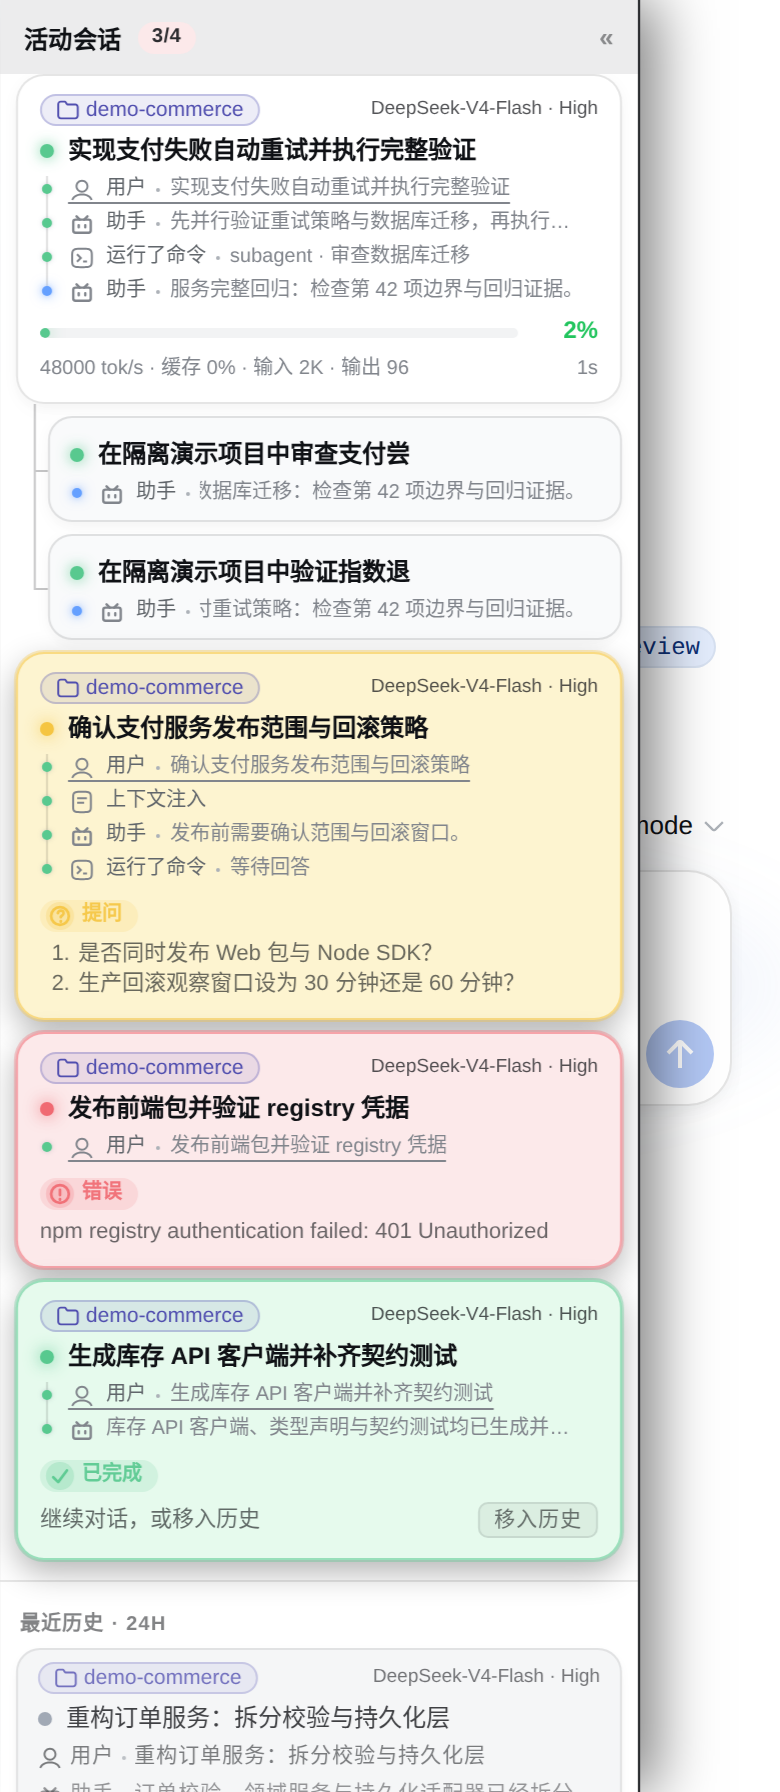
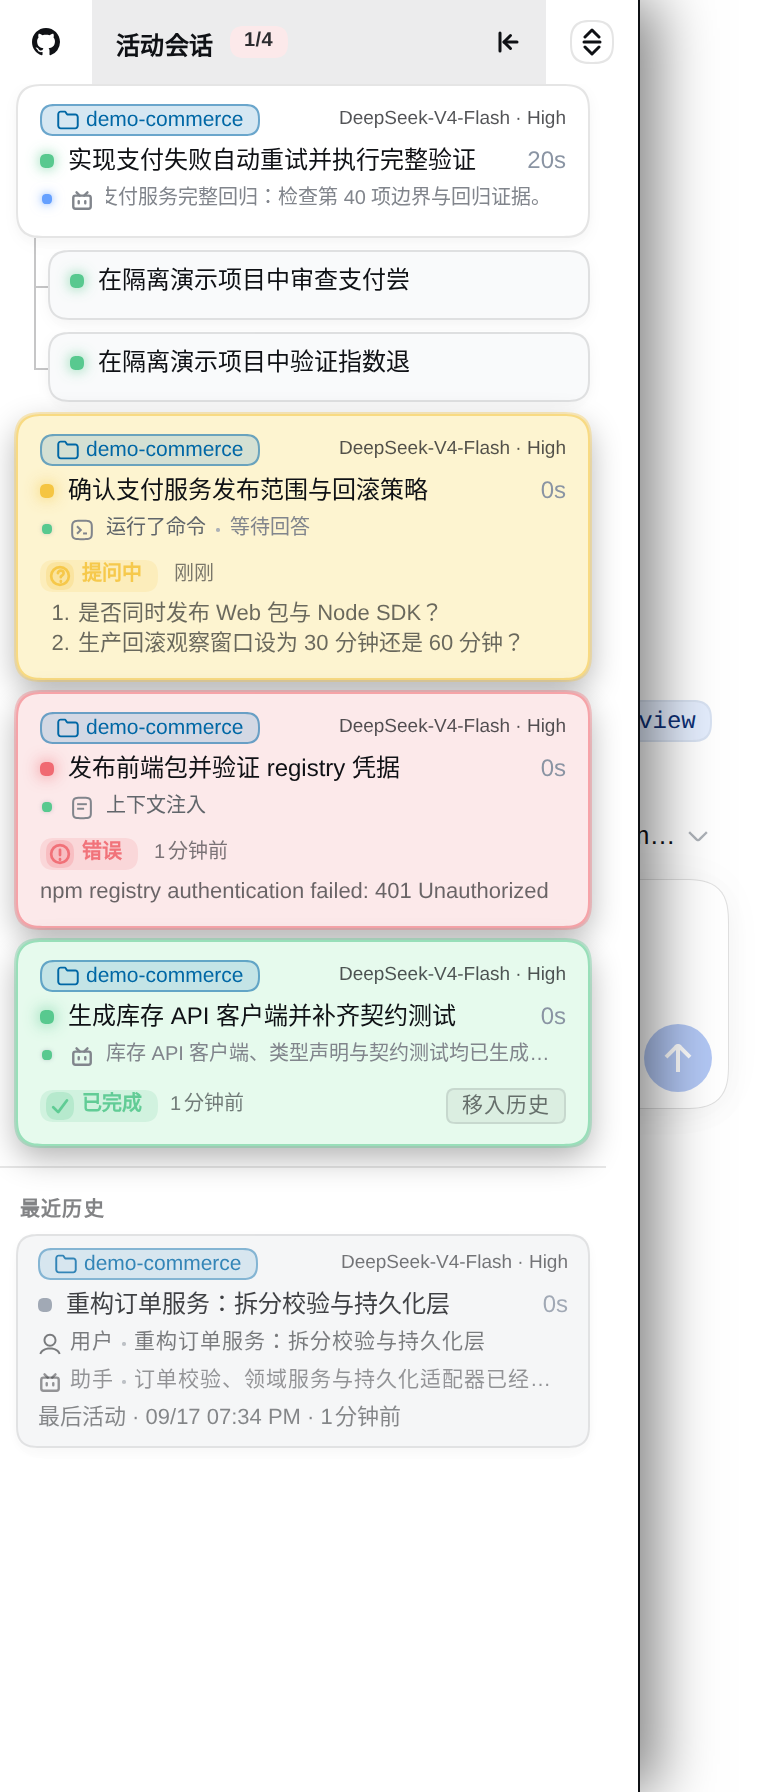
📝 文档(readme): 重摄默认档位截图并补充近期改进清单
## 原因
README 与市场截图停留在显示档位功能上线前的完整呈现形态（a81ac2f 摄于 8 月底），与当前实现脱节；此后多项用户可感知改进也未写入功能清单。

## 影响
- 四张市场截图（桌面/移动 × 深浅色）以默认中间显示档重摄：隔离演示环境实拍，画面含标题行三区布局、子代理层级、等待卡状态年龄、分级等待提醒与最近历史。
- 两个 README 同步：功能清单新增三档显示密度、标题行三区布局、活动会话新近度排序三条；工作区条目改写为徽标身份稳定配色口径；子代理层级条目补模型溯源/effort/回合进度；统计条目补标题行累计运行时长并加完整呈现档限定；等待提醒条目补状态年龄说明；英文版历史条目补齐绝对+相对时间；首屏大图 alt 按默认档实际观感改写。

## 取舍
截图路径不变（assets/screenshot-*.png），dsh-market screenshots.json 的 raw 直链自动生效；纯文档与资产变更，不修改代码与构建产物。

diff --git a/README.md b/README.md
@@ -21,7 +21,7 @@ This plugin attempts to answer these questions by providing an **activity sessio
 <p align="center">
   <picture>
     <source media="(prefers-color-scheme: dark)" srcset="assets/screenshot-desktop-dark.png">
-    <img src="assets/screenshot-desktop-light.png" width="1000" alt="Activity session overview pane in an isolated demo environment: showing run stats, sub-agent hierarchy, question prompts, completion reminders, error reminders, and recent history">
+    <img src="assets/screenshot-desktop-light.png" width="1000" alt="Activity session overview pane in an isolated demo environment at the default medium display tier: showing live session status with sub-agent hierarchy, question prompts, completion reminders, error reminders, and recent history">
   </picture>
 </p>
 <p align="center"><sub>Mobile <a href="assets/screenshot-mobile-dark.png">dark drawer</a> · <a href="assets/screenshot-mobile-light.png">light drawer</a> of the same clean isolated environment running a simulated coding task</sub></p>
@@ -53,11 +53,14 @@ The npm package ships prebuilt, so no local build step is needed. If the pane do
 - [x] **From floating overlay to docked pane**: on desktop, a persistent edge-docked column is added to the right of the left-sidebar workspaces; on mobile, a fixed drawer hidden by default is expanded via the "Activity" button in the session header, without squeezing the main conversation layout.
 - [x] **No pet icon features**: pet-related features are not supported; the UI focuses on session activity itself.
 - [x] **Native data-source subscription**: directly subscribes to the push snapshots of DSH's native `sessions` / `workspaces` services; the timeline shows at most 4 collapsed work-item rows, keeping the latest user instruction and the work item actually being executed.
-- [x] **Recent session list**: the pane is split into "Active sessions" and "Recent history" areas; inactive main sessions are shown in activity-time batches, and a "Load more..." button at the bottom lets users explicitly reveal older sessions.
-- [x] **Stronger waiting-for-action reminders**: blocked waits, completion reminders, and error reminders are marked with gold, green, and red cards respectively; questions are previewed directly as a question list, and completion reminders are explicitly acknowledged via the "Move to history" button on the card; the state is persisted on the host side and synced across all clients, so refreshing the page or opening another window never loses unacknowledged completion reminders or error reminders not yet overwritten by a new round.
-- [x] **Sub/grandchild session hierarchy**: sub-agents are nested under their parent session with connector lines and compact cards; a parent whose own round has ended but that still has active descendants keeps rendering as running, and disappears from the active area once its sub-agents have ended and no active descendants remain; the history area keeps main sessions only.
-- [x] **Workspace names displayed and factored into ordering**: session cards show a workspace badge with a stable color, and session ordering follows the workspace order in the left sidebar.
-- [x] **Current work and run stats**: active cards show the latest instruction, thinking, and tool calls in a collapsed timeline of at most 4 rows; running cards also show round progress, output rate, cache hit rate, input/output tokens, and run duration, while completed, blocked, and error waits retain the previous round's duration at the end of the token stats row alongside last-known output stats; recent history cards retain the latest completed round's available stats between the reply preview and activity time.
+- [x] **Recent session list**: the pane is split into "Active sessions" and "Recent history" areas; inactive main sessions are shown in activity-time batches with both the absolute date-time and the relative activity time, and a "Load more..." button at the bottom lets users explicitly reveal older sessions.
+- [x] **Stronger waiting-for-action reminders**: blocked waits, completion reminders, and error reminders are marked with gold, green, and red cards respectively; questions are previewed directly as a question list, and completion reminders are explicitly acknowledged via the "Move to history" button on the card; the state is persisted on the host side and synced across all clients, so refreshing the page or opening another window never loses unacknowledged completion reminders or error reminders not yet overwritten by a new round. Each waiting card also shows the relative age of its current state (e.g. "5 min ago") to the right of the status pill, refreshed every minute and hidden when the entry time is unavailable.
+- [x] **Sub/grandchild session hierarchy**: sub-agents are nested under their parent session with connector lines and compact cards; a parent whose own round has ended but that still has active descendants keeps rendering as running, and disappears from the active area once its sub-agents have ended and no active descendants remain; the history area keeps main sessions only. Sub-agent cards show model provenance, the reasoning effort, and round progress.
+- [x] **Workspace badges with stable identity colors**: session cards show a workspace badge whose foreground/background color pair is derived from the workspace identity — adding, removing, or changing other workspaces or refreshing the page never reshuffles existing colors.
+- [x] **Recency-first activity ordering**: running sessions are pinned to the top and sorted by the time of the latest user instruction (newest first); waiting-for-action sessions are sorted by when they entered their waiting state (newest first).
+- [x] **Current work and run stats**: active cards show the latest instruction, thinking, and tool calls in a collapsed timeline of at most 4 rows, with the cumulative run duration on the title row; running cards in the full tier also show round progress, output rate, cache hit rate, and input/output tokens, while completed, blocked, and error waits retain the previous round's duration at the end of the token stats row alongside last-known output stats; recent history cards retain the latest completed round's available stats between the reply preview and activity time.
+- [x] **Three-tier display density**: the toggle in the title-bar tool area cycles every card through compact → medium → full (ascending information density), defaulting to medium — medium keeps the title, workspace badge, the latest timeline row (live for running sessions), and waiting bodies (completion reminders collapse to a single row), while compact keeps title rows only; switching anchors the selected card in place, and the choice persists across refreshes.
+- [x] **Redesigned title bar**: the GitHub repo entry sits in its own area at the far left (hover tip: "Report issues, star & fork"), the collapse-hint icon appears on hover at the right end of the title area, and the display-density toggle lives in the tool area on the right — the two buttons are placed at opposite ends of the title bar to prevent touch mis-taps.
 - [x] **Session navigation**: clicking or keyboard-activating a session card jumps to that session's page, the current session stays highlighted, and selecting a session from DSH's native sidebar brings its pane card fully into view without forced centering.
 - [x] **Session metadata**: session cards show the current model name and reasoning level.
 - [x] **Polished desktop & mobile interactions**: the desktop pane can collapse, be resized by dragging, and remember its width; mobile uses a fixed drawer that does not squeeze the main conversation layout; long lists get independent scrolling and a back-to-top button.
